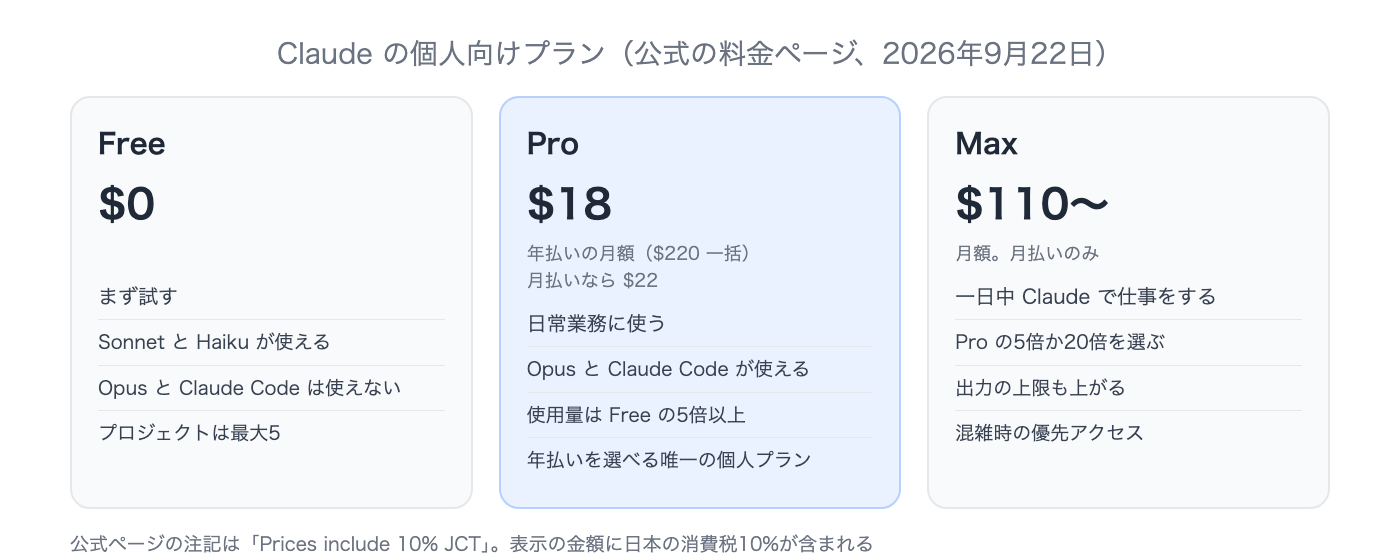
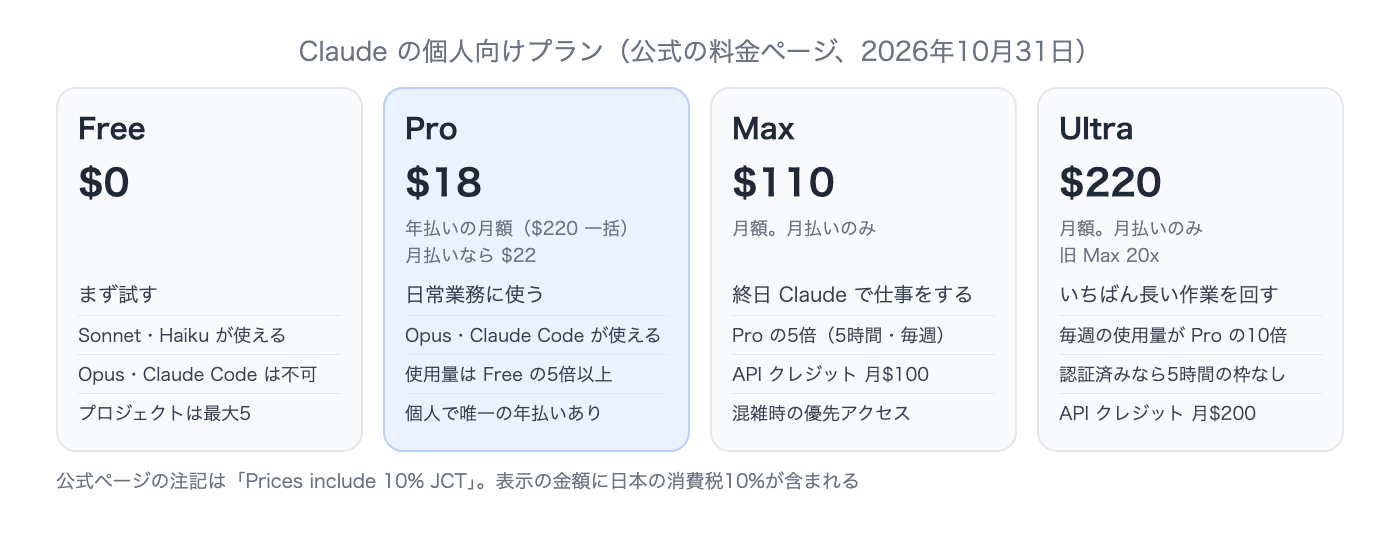
比較ページ・個別記事: ClaudeのMax 20xがUltraに（a1）
10/31 の差分（a1: 句が見つからない）の片付け。言い回しでなく中身が変わった。
- 料金ページ: Max は $100 の1段階（5時間ごと・毎週とも Pro の5倍）、Ultra $200 が新設（週は Pro の10倍、認証済みは5時間の上限なし、APIクレジット月$200）
- ヘルプ「Ultraプランとは？」: Max 20x は Ultra に改称、契約中の人は価格据え置きで自動移行

- ai-compare.json: claude の top・reset セル、変更履歴・last_changed、a1 の watch 句を今の文言に、出典 a6（Ultra のヘルプ）を追加
- claude-pricing: 個人向け4プランに。Max 5x/20x の記述を Max/Ultra に、表に5時間・毎週の上限の行、FAQ に MaxとUltraの違い。図3枚を描き直し、旧画面のスクショ（Max $110から）は外した
- claude-enterprise: APIクレジットの対象に Ultra を追加、ドキュメント名を更新

diff --git a/media/posts/claude-enterprise.md b/media/posts/claude-enterprise.md
@@ -132,7 +132,7 @@ TeamとEnterpriseで印が違う行だけを抜き出すと、次のとおりで
 
 **この経路での移行は元に戻せません。**移った直後はスキル・コード実行とファイル作成・Claude Design・Claude in ChromeなどがEnterpriseでは既定でオフになり、席が割り当てられないメンバーが出ることもあります。ヘルプは切り替えのあとに機能の設定と席の割り当てを見直すよう書いています。
 
-[MaxとTeamのAPIクレジットのドキュメント](https://platform.claude.com/docs/ja/about-claude/api-credits-for-subscribers)のとおり、毎月のAPIクレジットはMaxとTeamだけが対象で、Enterpriseは含まれません。Teamで受け取っていた組織は、移行すると新しいクレジットが止まります。手元に残っている分は期限まで使えて、Teamで買った使用クレジットの残りも引き継がれます。
+[Max・Ultra・TeamのAPIクレジットのドキュメント](https://platform.claude.com/docs/ja/about-claude/api-credits-for-subscribers)のとおり、毎月のAPIクレジットはMax・Ultra・Teamだけが対象で、Enterpriseは含まれません。Teamで受け取っていた組織は、移行すると新しいクレジットが止まります。手元に残っている分は期限まで使えて、Teamで買った使用クレジットの残りも引き継がれます。
 
 ## Enterpriseにするかの目安
 
@@ -176,11 +176,11 @@ SCIMや権限、使用量の上限を整えたあと、決まった仕事をClau
 
 ### Q. Claude EnterpriseにAPIクレジットは付きますか？
 
-付きません。毎月のAPIクレジットの対象はMaxとTeamで、Enterpriseは対象外です。TeamからEnterpriseに移ると、新しいクレジットは止まります。
+付きません。毎月のAPIクレジットの対象はMax・Ultra・Teamで、Enterpriseは対象外です。TeamからEnterpriseに移ると、新しいクレジットは止まります。
 
 ## 出典
 
-すべて2026年10月13日に取得。料金ページのEnterpriseの欄の「最低20シート」は2026年10月17日に取得。
+すべて2026年10月13日に取得。料金ページのEnterpriseの欄の「最低20シート」は2026年10月17日、APIクレジットの対象にUltraが加わったことは2026年10月31日に確認。
 
 - Claude「[料金](https://claude.com/ja/pricing)」Team & Enterpriseタブ、プラン間の機能の比較表、FAQ
 - Claude「[Pricing](https://claude.com/pricing)」（米国向け）Team & Enterpriseタブ
@@ -194,6 +194,6 @@ SCIMや権限、使用量の上限を整えたあと、決まった仕事をClau
 - Anthropic ヘルプセンター「[エンタープライズプランでカスタムロールを管理する](https://support.claude.com/ja/articles/13930452)」
 - Anthropic ヘルプセンター「[監査ログへのアクセス](https://support.claude.com/ja/articles/9970975)」
 - Anthropic ヘルプセンター「[エンタープライズプランのカスタムデータ保持制御を設定する](https://support.claude.com/ja/articles/10440198)」
-- Claude Platform ドキュメント「[MaxプランおよびTeamプランのAPIクレジット](https://platform.claude.com/docs/ja/about-claude/api-credits-for-subscribers)」
+- Claude Platform ドキュメント「[Maxプラン、Ultraプラン、およびTeamプランのAPIクレジット](https://platform.claude.com/docs/ja/about-claude/api-credits-for-subscribers)」
 - Claude Platform ドキュメント「[料金](https://platform.claude.com/docs/ja/about-claude/pricing)」
 - claude.ai「[Enterpriseの申し込み](https://claude.ai/create/enterprise)」（ログインせずに表示した最初の画面）
